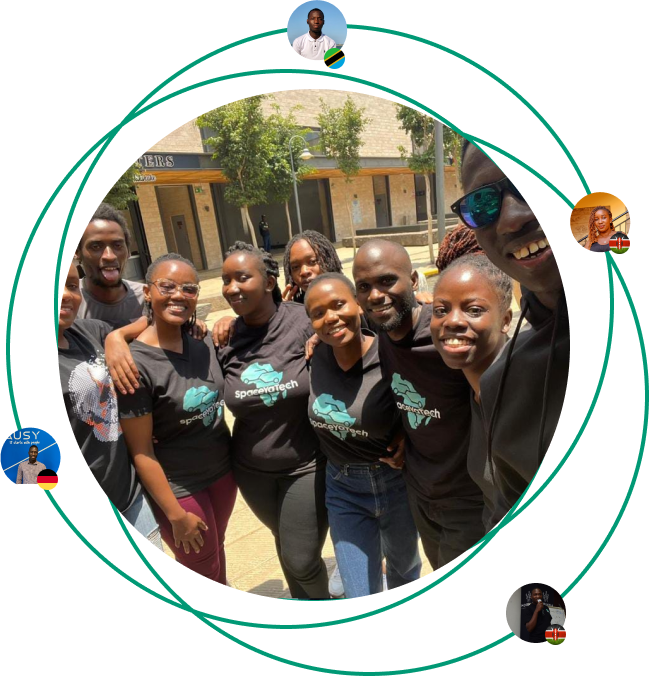
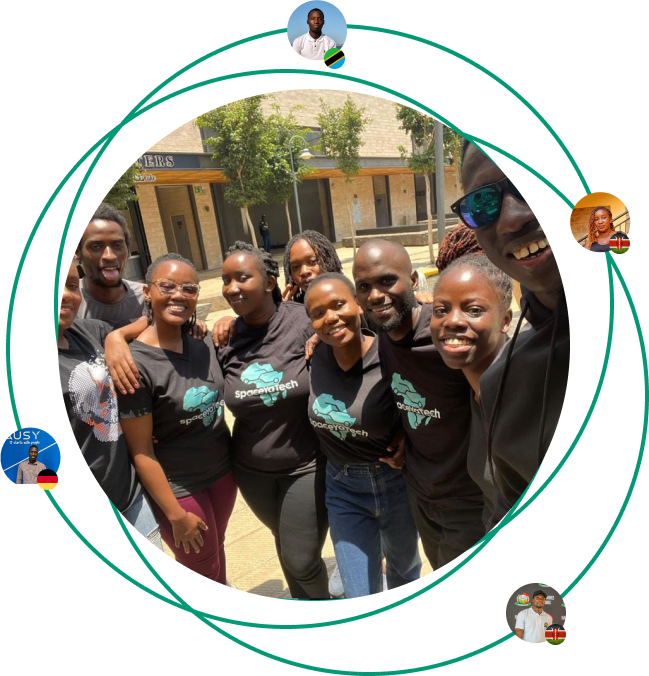
changed hero images on aboutUs & landing pages

Changed region(s): [[0.7704, 0.8388, 0.8937, 0.963]]

diff --git a/src/APP/pages/aboutUs/sections/HeroSection.jsx b/src/APP/pages/aboutUs/sections/HeroSection.jsx
@@ -1,5 +1,6 @@
-import AboutImg1 from "../../../../assets/images/aboutPage/about-img-1.png";
-import AboutImg2 from "../../../../assets/images/aboutPage/about-img-2.png";
+import React from "react";
+
+import { aboutImg2, heroImg } from "../../../../assets/images/aboutPage";
 
 function HeroSection() {
   return (
@@ -22,14 +23,14 @@ function HeroSection() {
           evangelists.
         </p>
         <img
-          src={AboutImg1}
+          src={heroImg}
           alt="space ya tech"
           className="absolute -top-8 md:-top-24 lg:-top-8 xl:-top-28 right-0 md:-right-36 lg:-right-48 xl:-right-48 w-2/6 md:w-auto lg:w-[70%]"
         />
       </div>
       <div className="flex flex-col md:flex-row justify-between items-center md:my-20 min-h-96 px-4 md:px-0">
         <div className="my-10">
-          <img src={AboutImg2} alt="space ya tech" />
+          <img src={aboutImg2} alt="space ya tech" />
         </div>
         <div className="leading-6 md:w-1/2 text-base space-y-4 md:pl-10">
           <p>

diff --git a/src/APP/components/PodcastCard.jsx b/src/APP/components/PodcastCard.jsx
@@ -5,7 +5,7 @@ function PodcastCard({ img, category = "Podcast", title, description, link }) {
     <a href={link} target="_blank" rel="noopener noreferrer">
       <div className="w-[95vw] md:w-[520px] h-[520px] rounded-md overflow-hidden relative">
         <img src={img} alt="podcast" className="w-full h-full object-cover" />
-        <div className="absolute bottom-0 left-0 right-0 bg-black opacity-80 h-1/3" />
+        <div className="absolute bottom-0 left-0 right-0 bg-black opacity-80 h-1/2 md:h-1/3" />
 
         <div className="absolute bottom-0 left-0 right-0 text-white flex flex-col gap-3 p-6">
           <h5 className="text-[#009975] font-medium text-sm capitalize">

diff --git a/src/assets/images/aboutPage/index.js b/src/assets/images/aboutPage/index.js
@@ -1,0 +1,4 @@
+import heroImg from "./heroSec.png";
+import aboutImg2 from "./about-img-2.png";
+
+export { heroImg, aboutImg2 };
